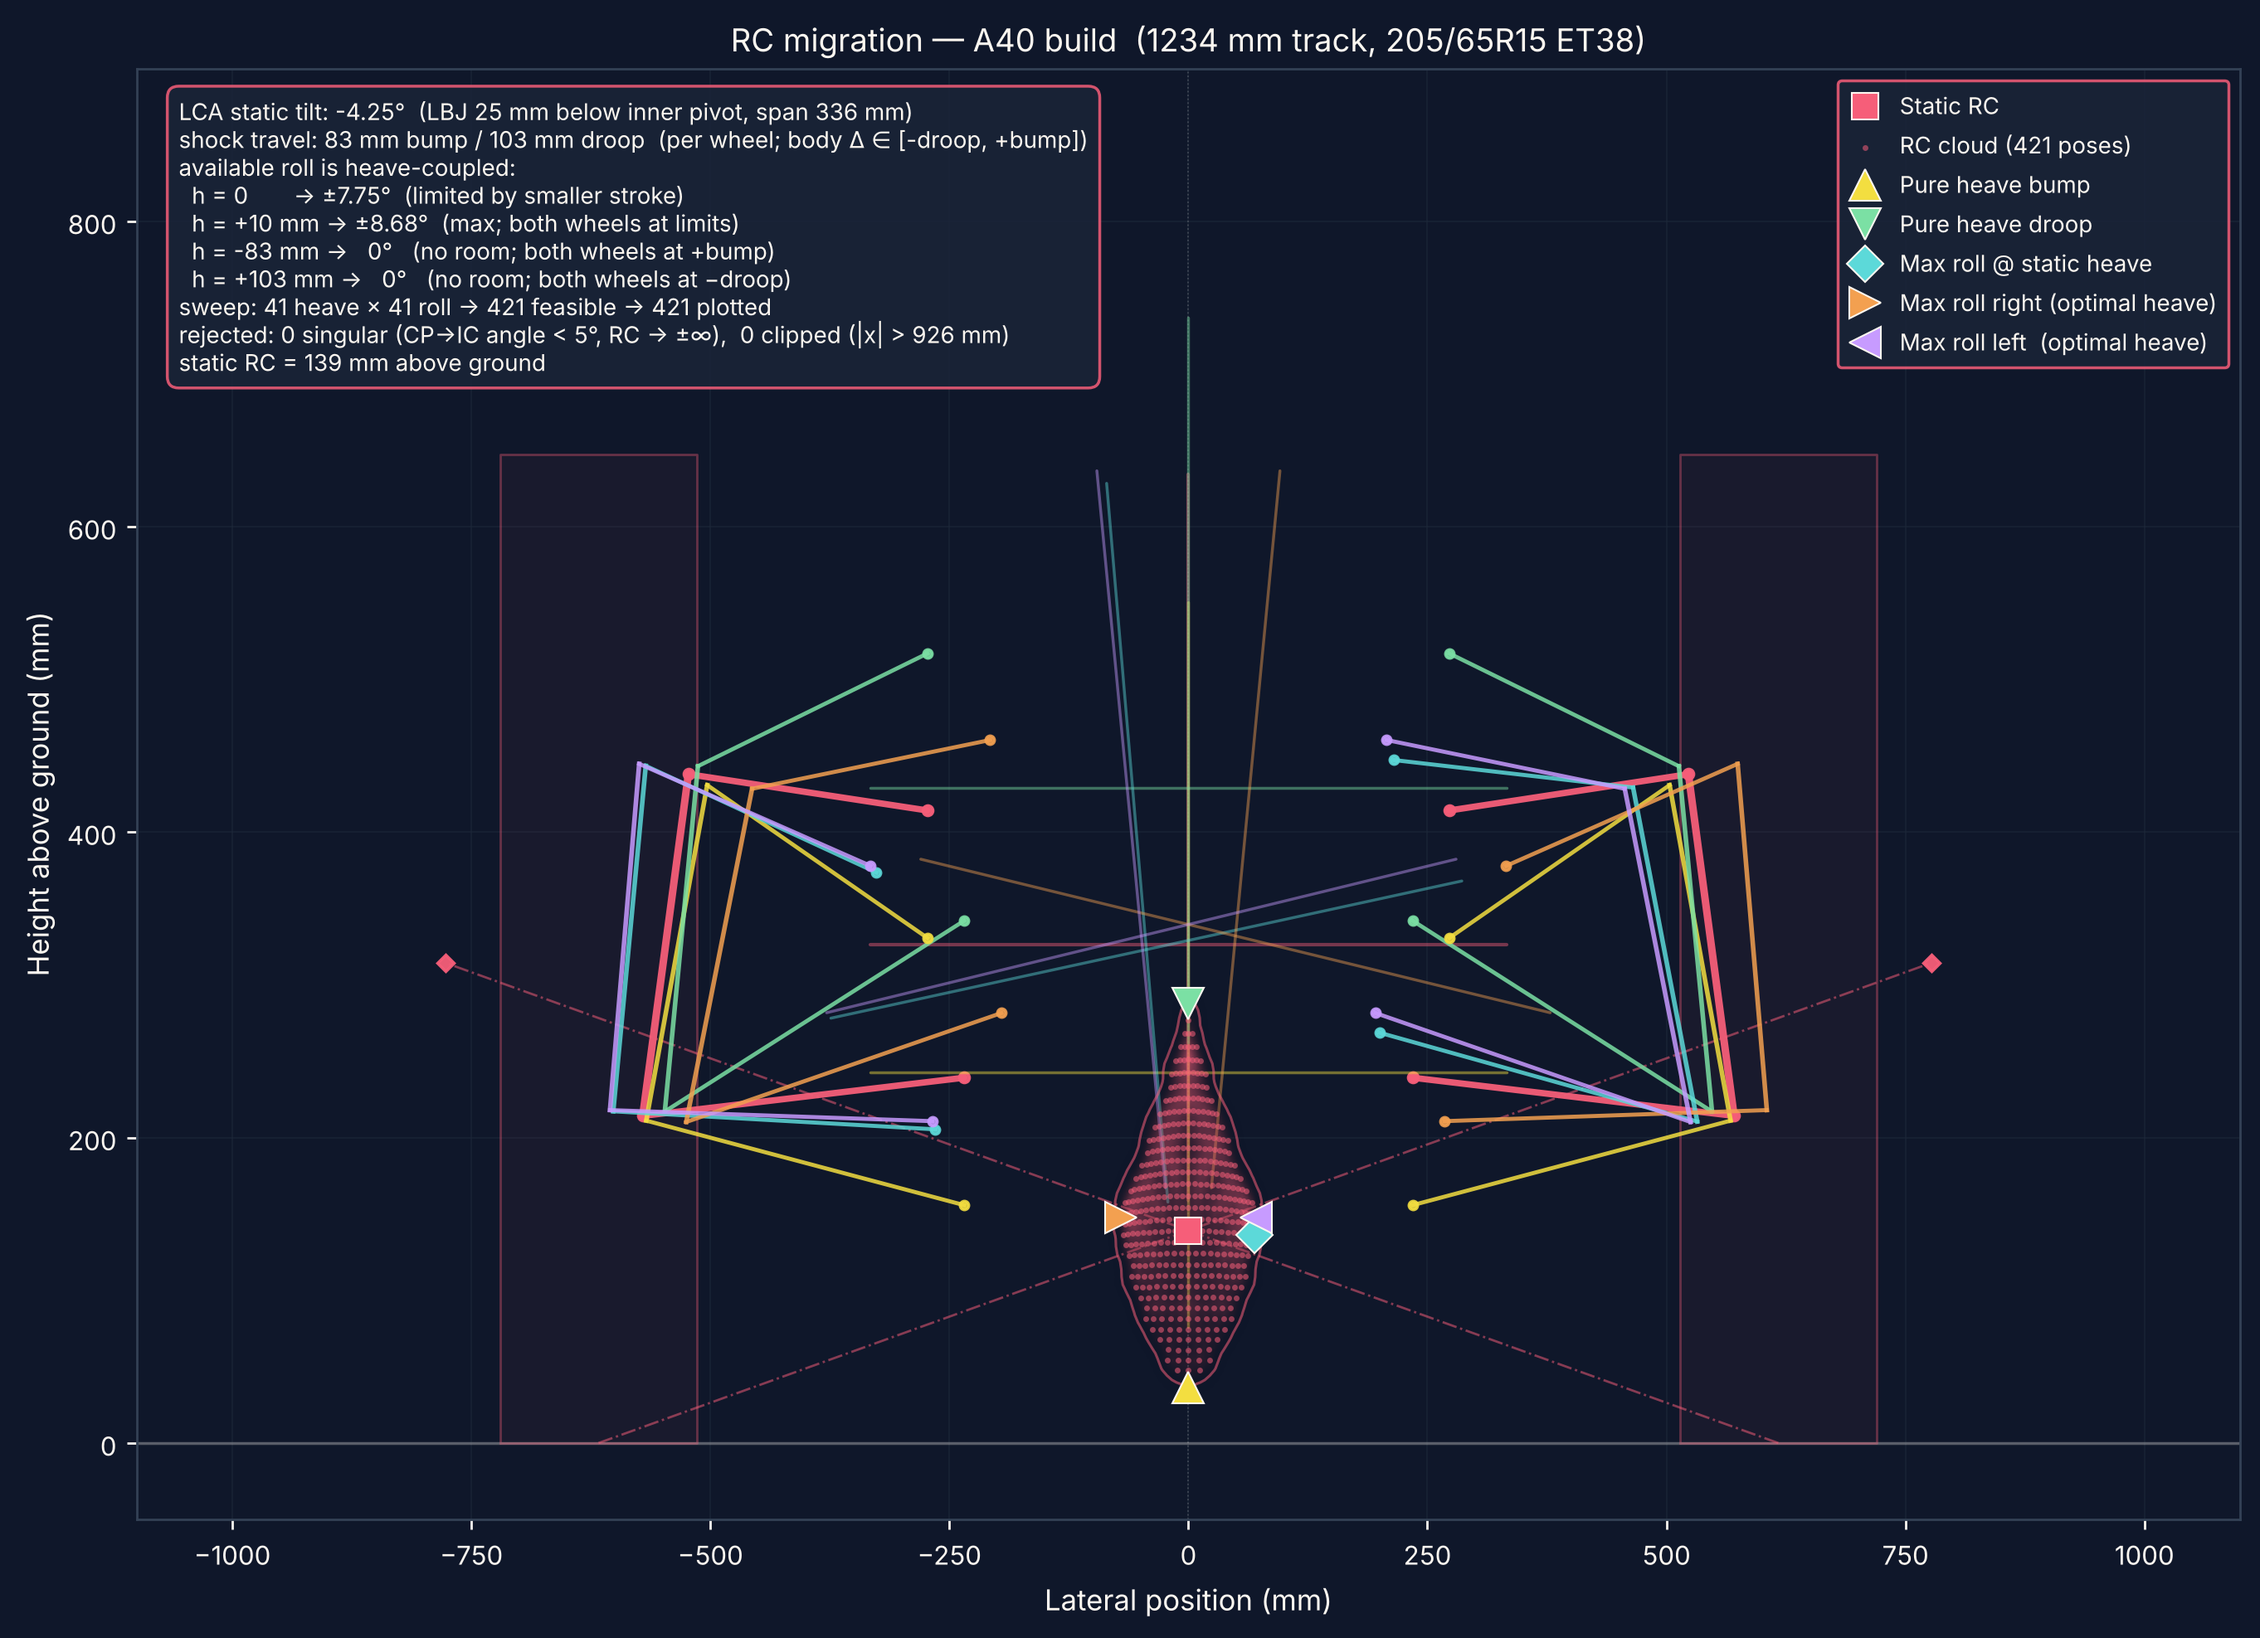
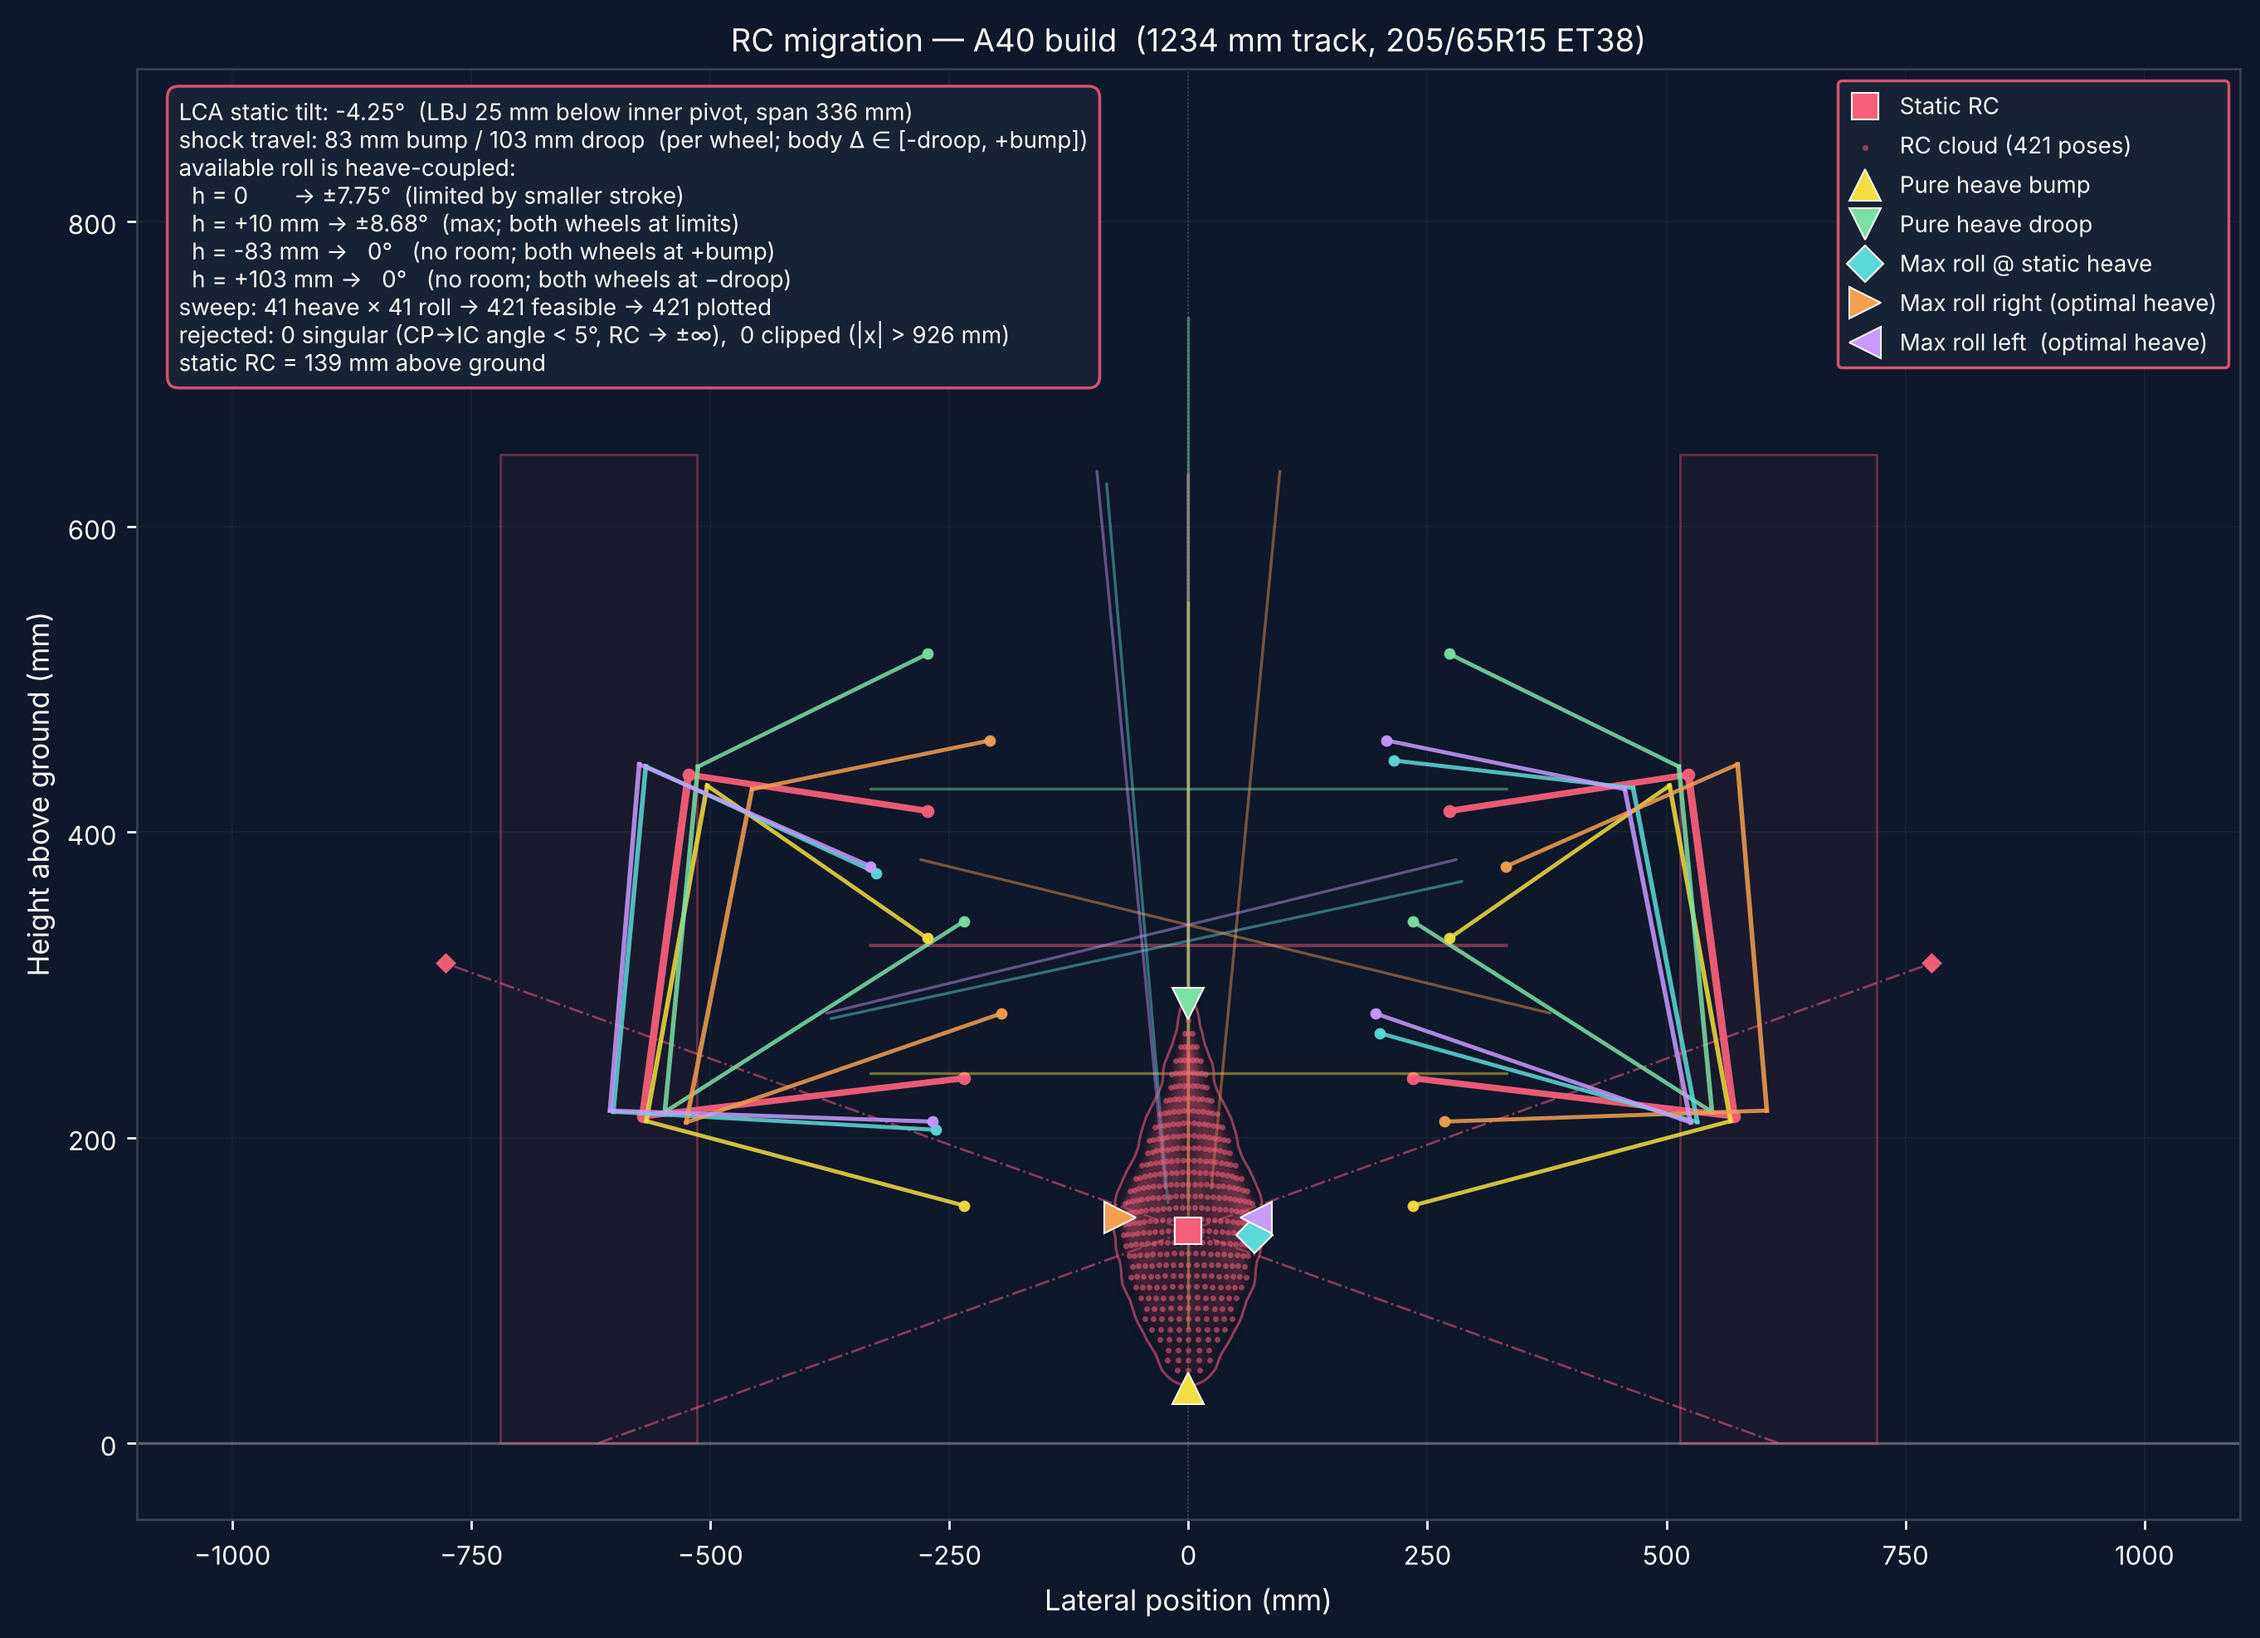
A40: shared constants file drives posts, plots and roadmap
content/a40/constants.yaml holds the build's inputs with a status for
each. scripts/a40_constants.py derives the rest (track, tyre OD,
masses, rates, roll, damping, rpm, U-joints) and merges the geometry
script's results into src/blog/a40-constants.generated.json. Posts use
{{name}} placeholders (727 across 11 posts); build-constants tables are
generated; roadmap strings use the same values. An unknown placeholder
or a stale JSON fails the build. Corrections that fell out: Miata tyre
OD 577.6 mm everywhere and exact derived masses.

Claude-Session: https://claude.ai/code/session_011vJqfmcNbUuKDjwhSF1hJ4

diff --git a/tickets/A40-007-shared-constants.md b/tickets/A40-007-shared-constants.md
@@ -1,8 +1,8 @@
 ---
 id: A40-007
 title: Shared constants file (YAML → Python → JSON → posts)
-status: todo
-owner:
+status: review
+owner: constants agent
 reviewer:
 blocked_by: A40-001, A40-004
 ---
@@ -19,11 +19,30 @@ Numbers are typed by hand into a dozen posts and scripts and drift apart. One fi
 - `npm run build` runs the Python step first, or the generated JSON is committed and a check fails if it's stale.
 
 ## Acceptance criteria
-- [ ] Changing one input (e.g. ET) and rebuilding changes every dependent number in posts and plots
-- [ ] Unknown `{{placeholder}}` fails `npm run build` with the post and name in the error
-- [ ] Derived values match A40-000 (unit tests in Python: track 1234, OD 647.5, corners 231/181, roll stiffness 13.5/14.4, damping 4.1/3.4)
-- [ ] Plot scripts import the constants; no duplicated literals for the same quantities
-- [ ] README section in the YAML header explains how to add a constant
+- [x] Changing one input (e.g. ET) and rebuilding changes every dependent number in posts and plots
+- [x] Unknown `{{placeholder}}` fails `npm run build` with the post and name in the error
+- [x] Derived values match A40-000 (unit tests in Python: track 1234, OD 647.5, corners 231/181, roll stiffness 13.5/14.4, damping 4.1/3.4)
+- [x] Plot scripts import the constants; no duplicated literals for the same quantities
+- [x] README section in the YAML header explains how to add a constant
+
+## Implementer notes (constants agent, 2026-10-24)
+Pipeline: `content/a40/constants.yaml` (inputs, 90 entries: value/unit/status/note) → `scripts/a40_constants.py` (`derive()` computes track from hub face and ET, tyre OD and circumference, curb/sprung/corner masses, wheel rates and bands, rear springs per MR case, roll stiffness K = Kw·T²/2, critical damping, LLTD start, rpm table at 100 km/h, shaft/U-joint angles, rear hub face and narrowing, fitment edges, Ackermann knuckle angle; `derive_geometry()` adds the MR-dependent ones: front spring, lb/in, damping at the damper, stroke for stock travel, roll arm) + `scripts/a40_geometry_results.json` (87 kinematic results written by `plot_geometry_reference.py`: RC/IC/jacking, pivots, MR at 65–90°, travel, roll angles and ARB adds per rear RC and CG, bar stiffness, KPI/caster/scrub/trail, Ackermann excess, weight transfer, turning circles) → `src/blog/a40-constants.generated.json` (committed; value, unit, text, raw, status, kind, note + the build-constants tables).
+
+- Geometry results carry a hash of the input values; `a40_constants.py` refuses to write if they were computed from other inputs.
+- `npm run constants` = `python3 scripts/plot_geometry_reference.py --results-only` (~1 s, no plots; writes results + JSON). Without the flag it also redraws all plots (~65 s).
+- Staleness: the JSON stores a hash of the YAML, `a40_constants.py` and the geometry results. `node scripts/check-constants.mjs` (first step of `npm run build`) recomputes it in Node, then pushes every `{{…}}` in content/a40 through the site's own substitution code and loads roadmapData.ts. `npm run check-constants` also runs `python3 scripts/a40_constants.py --check` (byte-for-byte regeneration). pyyaml 6.0.3 was available; no npm dependencies added.
+- Placeholders: `{{name}}` (value + unit), `{{name:raw}}`, `{{name:N}}` (N decimals), `{{name:rN}}` (round to N), combinable; `{{table:vehicle|wheels|suspension|drivetrain}}`. Formatting is half-up with a U+2212 minus, identical in Python (`format_number`) and TS (`formatNumber`).
+- Substitution hook: `substitutePostBody(car, slug, body)` in `src/blog/a40Constants.ts`, called from `parsePost()` in `src/blog/blogData.ts` (rendered posts) and from `searchDoc()` in `vite.plugins.ts` (search index), so both see the same text; other cars pass through unchanged.
+- Self-tests (`python3 scripts/a40_constants.py --test`, also run on every write): 17 checks of the formulas fed with the A40-000 inputs (track 1234 / nominal 1230, hub face 655, OD 647.5, corners 231/181, curb 875 / sprung ~825, wheel rates 17.9/16.1, roll stiffness 13.5/14.4/28.0, damping 4.1/3.4, rpm 2890 in 6th at 4.44 and 3640/3360/3200 in 5th, rear hub face 708 and narrowing 42/47, rack 190, shaft 5.4 / joints 2.4, Ackermann 17.40, poke 35/37, rounding). They test the formulas, so changing an input in the YAML does not trip them.
+- Sensitivity check: ET 38 → 40 in the YAML made `check-constants` fail as stale; after regenerating, 10 posts changed (track 1234→1230, half-track 617→615, rear hub face 708→710, rear narrowing 42–47→40–45, scrub +0.6→−1.4 mm, tyre edges, ET labels…) and 11 plots changed. Reverted; plots and renders came back identical to the ET38 state.
+- Unknown placeholder: `{{bogus_track}}` and `{{front_track:xx}}` appended to steering.md → `npm run build` exits 1 with `content/a40/steering.md: unknown constant {{bogus_track}}` and `unknown modifier :xx in {{front_track}}`.
+- Plot script: every build input comes from `C` (tracks, ET, hub faces, tyre ODs/sizes, wheelbases, masses, CG ± tol, rear RC band, rear MR cases, ride frequencies and bands, roll targets, lateral g, shock angle/stroke/bump split/length, ARB IR and length, driveshaft angles); labels that printed literals (CG 575/525/625, 3–4°, 1.2–1.6 Hz, 1365/+35 mm, tyre sizes) are now formatted from them. Only the scanned donor geometry (SUSP) and plot styling remain local.
+
+Intended corrections that changed rendered numbers (both resolve review notes from A40-001/002):
+1. Miata tyre OD is now derived from 185/60R14 = 577.6 mm (script used 577.0 while the posts said 577.6): hub height 300.25→299.95 (+34.95), front RC 139.2→139.0, jacking 22.6→22.5% (≈930→≈920 N), RC tyre effect +15.8→+15.7, scrub +0.53→+0.59 (posts "+0.5"→"+0.6"), roll axis 122/113→121/112.
+2. Masses are derived exactly (sprung 824, corners 231.25/180.75 instead of hand-rounded 825/231/181): ARB adds 31.8/23.8/17.8→31.7/23.7/17.7, 33.0/18.7→32.9/18.6, CG-625 ARB need 30→29, rear springs 38.1/28.6/22.3→38.0/28.5/22.2 (shown 38/29/22, unchanged).
+3. "~106–112 mm stroke" → 105–112 (155–165 mm × 0.680; the roadmap already said 105–112). MR in travel 0.678–0.692 → 0.678–0.691 (now measured inside the 83/103 mm travel).
+4. build-constants: rear RC status "model" → "measure" (status now comes from the constant); legend gains "measure" and a line saying the tables are generated from constants.yaml.
 
 ## Verification
 _Filled by the reviewer._

diff --git a/tickets/A40-008-use-constants.md b/tickets/A40-008-use-constants.md
@@ -1,8 +1,8 @@
 ---
 id: A40-008
 title: Replace hard-coded numbers with constants
-status: todo
-owner:
+status: review
+owner: constants agent
 reviewer:
 blocked_by: A40-007
 ---
@@ -11,9 +11,16 @@ blocked_by: A40-007
 All of content/a40/*.md, scripts/plot_geometry_reference.py, scripts/a40-*.py, src/blog/roadmapData.ts
 
 ## Acceptance criteria
-- [ ] Every number listed in constants.yaml is a placeholder in the posts (grep for the literal values returns only the YAML, generated JSON, and historical log entries where the old value is the point)
-- [ ] Rendered posts read the same as before apart from intended corrections (diff the rendered text)
-- [ ] Plots regenerate identically or with intended changes only
+- [x] Every number listed in constants.yaml is a placeholder in the posts (grep for the literal values returns only the YAML, generated JSON, and historical log entries where the old value is the point)
+- [x] Rendered posts read the same as before apart from intended corrections (diff the rendered text)
+- [x] Plots regenerate identically or with intended changes only
+
+## Implementer notes (constants agent, 2026-10-24)
+- 727 placeholders across 11 posts (build-constants, suspension-tuning, geometry-design-reference, narrowing-analysis, donor-geometry-dimensions, rear-suspension, steering, design-overview, frame-design, design-finalization, overview). build-constants' four tables are `{{table:…}}` blocks generated from the `tables:` section of constants.yaml; its CG mass table uses placeholders for fuel, driver, corner and total masses. Electrical posts, teardown, frame-jig, motor-selection and suspension-options have no constants.
+- roadmapData.ts: 31 strings now use `k()` / `raw()` from a40Constants.ts (track, hub faces, narrowing, rack, ET, tyre, MR, wheel rates, springs, stroke, masses, roll, final drive, driveshaft angles, axle load, one edge label). Task ids, edges and statuses unchanged; the evaluated `roadmap` object is identical to the pre-change one (JSON dump diffed: no difference). `node scripts/check-roadmap-plan.mjs`: 0 FAIL.
+- Rendered-text check: every content/a40 post rendered before and after through `parsePost()` (marked + KaTeX + heading ids), HTML→text, diffed. 12 posts identical. Changes only in build-constants, donor-geometry-dimensions, geometry-design-reference, narrowing-analysis, rear-suspension, suspension-tuning, and every changed number is one of the corrections listed in A40-007 (OD 577.6, exact masses, 105–112 stroke, 0.691, rear RC status, legend text).
+- Plots: with the two input corrections temporarily reverted, the regenerated plots are visually identical to the pre-work commit f649f8c. The 4 that still differ at pixel level (arb_sizing, ride_frequency, roll_vs_cg, rc_tire_comparison) show the same curves and labels; the differences are anti-aliasing from floating-point noise, plus the legend reading "577.0 mm OD" instead of "577 mm OD". With the corrections in place: arb_sizing, roll_vs_cg ("sprung mass 824 kg"), ride_frequency, jacking, rc_combined, rc_construction, rc_tire_comparison (577.6 mm OD), rc_migration_a40/miata move slightly. All other plots are pixel-identical.
+- Literals left on purpose (not constants, or the old value is the point): scanned donor coordinates and forum-CAD columns; the ET25/30/38/45 sweep table and the 175–205 width rows in narrowing-analysis; Δ columns (+85, −188, −240, 1605 mm) in the donor/A40 comparison table; rack 225/260 mm for hypothetical tyre widths; RC migration extents (±68/±203 mm, 41–286/38–321 mm), which are drawn inside the migration plot and not exported; U-joint life 6240 h (plot label); "old 0.62–0.63 / 175 mm / 17°" history; roadmap line 44 (glossary comment), the t-buy-wheels purchase record ("+38 offset") and "Within 2 mm of stock" in the track decision.
 
 ## Verification
 _Filled by the reviewer._

diff --git a/tickets/README.md b/tickets/README.md
@@ -63,8 +63,8 @@ _Filled by the reviewer: what was checked, how, and the result._
 | [A40-004](./A40-004-constants-and-tuning.md) | Build constants and suspension tuning posts | done |
 | [A40-005](./A40-005-electrical-dash.md) | Electrical, CAN gateway and dash | in-progress |
 | [A40-006](./A40-006-roadmap-overview.md) | Roadmap and overview posts | done |
-| [A40-007](./A40-007-shared-constants.md) | Shared constants file (YAML → Python → JSON → posts) | todo |
-| [A40-008](./A40-008-use-constants.md) | Replace hard-coded numbers with constants | todo |
+| [A40-007](./A40-007-shared-constants.md) | Shared constants file (YAML → Python → JSON → posts) | review |
+| [A40-008](./A40-008-use-constants.md) | Replace hard-coded numbers with constants | review |
 | [A40-009](./A40-009-consistency-review.md) | Independent cross-post consistency review | todo |
 | [A40-010](./A40-010-build-and-visual-check.md) | Build, lint, links and visual check | todo |
 | [A40-011](./A40-011-ship.md) | PR, preview check, merge, live check | todo |
